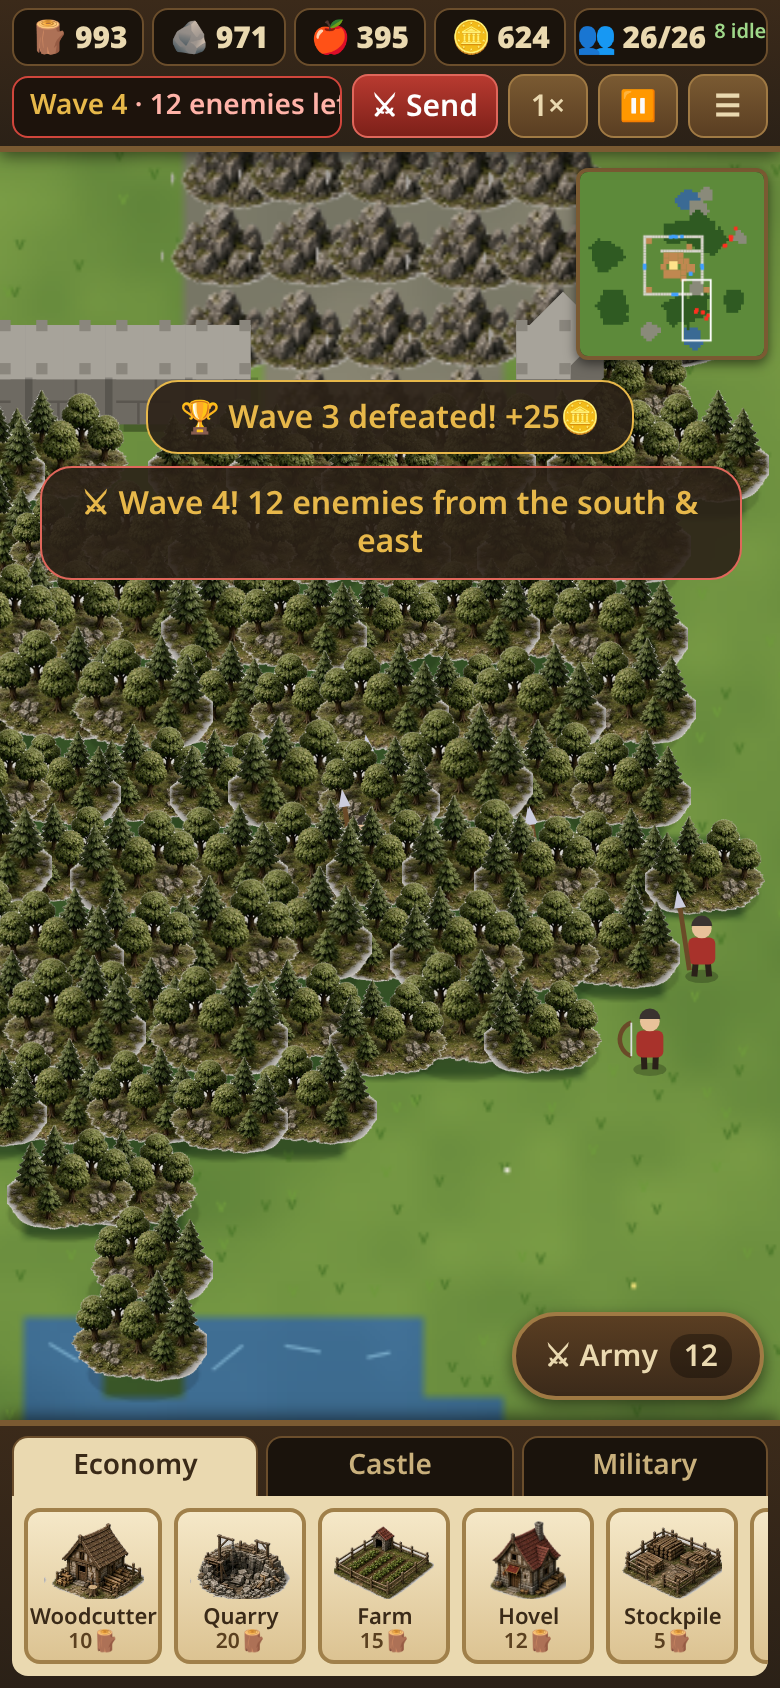
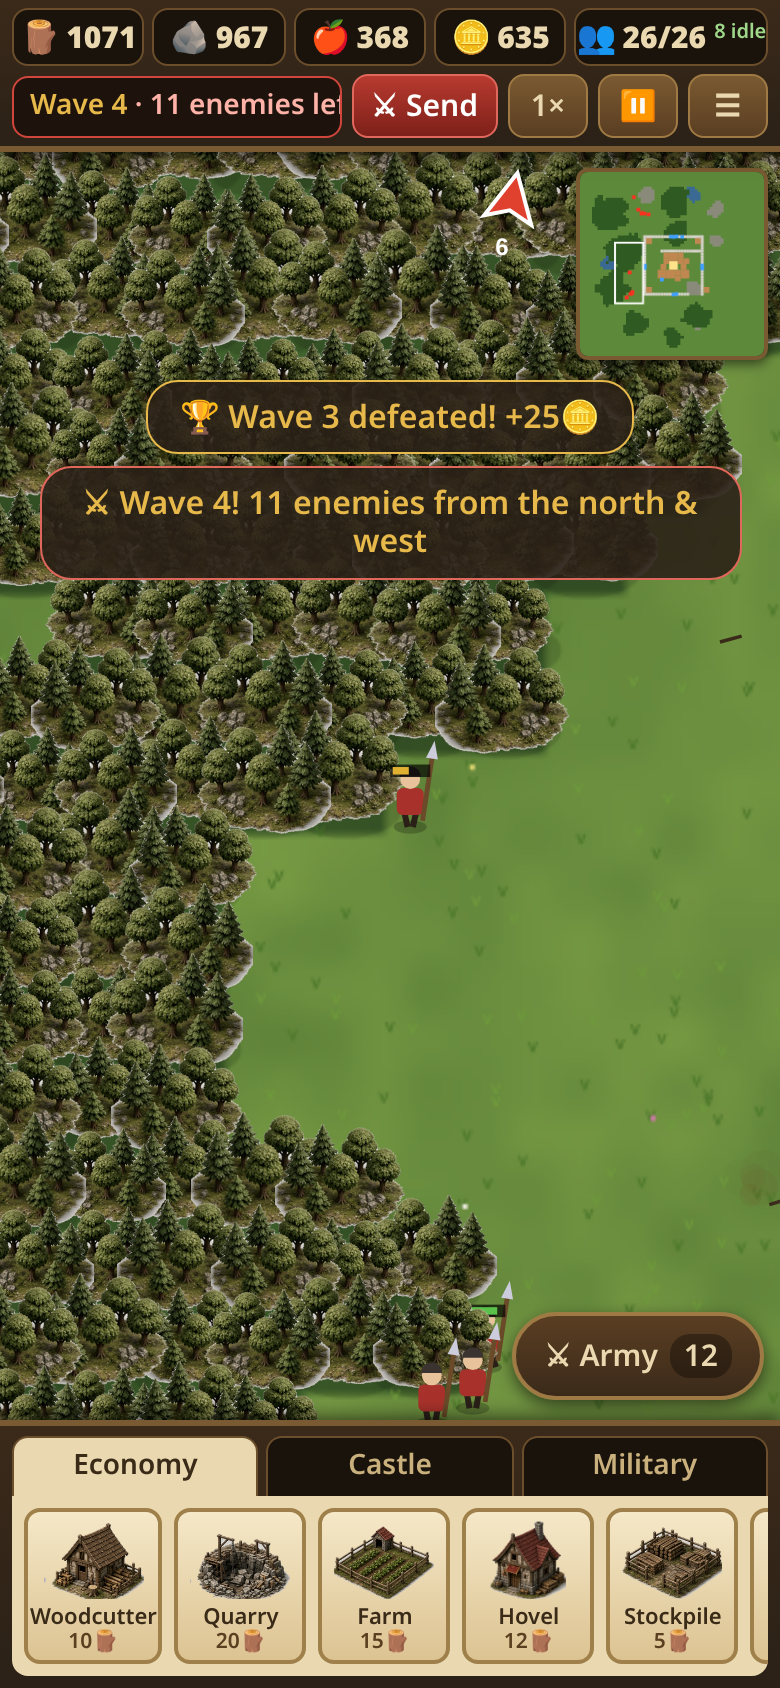
v1.0.3: gentler wave growth, spearmen fight back against archers

diff --git a/game.js b/game.js
@@ -1,6 +1,6 @@
 'use strict';
 (() => {
-const VERSION = '1.0.2';
+const VERSION = '1.0.3';
 const T = 32, N = 64, SAVE_KEY = 'htk-save-v1', TUT_KEY = 'htk-tut-done';
 const $ = id => document.getElementById(id);
 const cv = $('cv'), ctx = cv.getContext('2d');
@@ -268,9 +268,9 @@ function orderMove(ids, tx, ty) {
   return ok;
 }
 function nearestEnemyOf(u, r) { let best = null, bd = r; for (const e of S.u) if (e.tm !== u.tm && e.hp > 0) { const d = Math.hypot(e.x-u.x, e.y-u.y); if (d < bd) { bd = d; best = e; } } return best; }
-function shoot(fx, fy, tgt, dmg, team, h0 = 10) {
+function shoot(fx, fy, tgt, dmg, team, h0 = 10, src = 0) {
   const d = Math.hypot(tgt.x - fx, tgt.y - fy);
-  projectiles.push({sx:fx, sy:fy, tid:tgt.id, tx:tgt.x, ty:tgt.y, t:0, dur:Math.max(.15, d/13), dmg, team, h0});
+  projectiles.push({sx:fx, sy:fy, tid:tgt.id, tx:tgt.x, ty:tgt.y, t:0, dur:Math.max(.15, d/13), dmg, team, h0, src});
 }
 function hurtU(u, dmg) { u.hp -= dmg; if (u.hp <= 0 && !u.dead) { u.dead = true; puff(u.x*T, u.y*T, u.tm ? '#7a2a20' : '#2f4f8a', 6); if (u.tm === 1) S.kills++; } }
 function hurtB(b, dmg) { if (!byId.has(b.id) || S.over) return; b.hp -= dmg; if (Math.random() < .3) puff((b.x + B[b.k].w*Math.random())*T, (b.y + B[b.k].h*.6)*T, '#b5a68a', 1); if (b.hp <= 0) destroyB(b); }
@@ -288,6 +288,7 @@ function stepPlayerUnit(u, dt) {
   } else if (!u.path.length) {
     let tg = null, bd = d.aggro;
     for (const e of S.u) if (e.tm === 1 && e.hp > 0) { const dp = Math.hypot(e.x-u.px, e.y-u.py); if (dp < bd && !elevatedE(e)) { bd = dp; tg = e; } }
+    if (!tg && u.hitBy) { const a = uById(u.hitBy); if (a && a.hp > 0 && Math.hypot(a.x-u.px, a.y-u.py) < 8) tg = a; else u.hitBy = 0; }
     if (tg) {
       const dd = Math.hypot(tg.x-u.x, tg.y-u.y);
       if (dd < .75) { if (u.cd <= 0) { hurtU(tg, d.dmg); u.cd = d.cd; u.atk = .2; } }
@@ -310,7 +311,7 @@ function stepEnemy(u, dt) {
   let foe = null, fd = u.k === 'earcher' ? d.range : 1.8;
   for (const p of S.u) if (p.tm === 0 && p.hp > 0 && (u.k === 'earcher' || !p.el)) { const dd = Math.hypot(p.x-u.x, p.y-u.y); if (dd < fd) { fd = dd; foe = p; } }
   if (foe) {
-    if (u.k === 'earcher') { if (u.cd <= 0) { shoot(u.x, u.y, foe, d.dmg, 1, 10); u.cd = d.cd; } return; }
+    if (u.k === 'earcher') { if (u.cd <= 0) { shoot(u.x, u.y, foe, d.dmg, 1, 10, u.id); u.cd = d.cd; } return; }
     if (fd < .75) { if (u.cd <= 0) { hurtU(foe, d.dmg); u.cd = d.cd; u.atk = .2; } return; }
     const ox = u.x, oy = u.y; moveTo(u, foe.x, foe.y, d.spd, dt); if (!passT(tileOf(u)) || occ[tileOf(u)]) { u.x = ox; u.y = oy; } else return;
   }
@@ -334,8 +335,8 @@ let fieldVer = 0;
 const EDGE_NAMES = ['north','east','south','west'];
 function waveComp(n) {
   const hpm = 1 + 0.08*(n-1), list = [];
-  for (let i = 0; i < 3 + Math.floor(1.6*n); i++) list.push('raider');
-  for (let i = 0; i < (n >= 3 ? n-2 : 0); i++) list.push('earcher');
+  for (let i = 0; i < 3 + Math.floor(1.4*n); i++) list.push('raider');
+  for (let i = 0; i < (n >= 3 ? Math.ceil((n-2)*0.75) : 0); i++) list.push('earcher');
   for (let i = 0; i < (n >= 4 ? Math.floor((n-2)/2) : 0); i++) list.push('brute');
   return {list, hpm};
 }
@@ -397,7 +398,7 @@ function step(dt) {
     if (tg) { shoot(cx, cy, tg, sh.d, 0, b.k === 'keep' ? 60 : 50); b.cd = sh.cd; } }
   // projectiles
   for (const p of projectiles) { p.t += dt; const tg = uById(p.tid); if (tg && tg.hp > 0) { p.tx = tg.x; p.ty = tg.y; }
-    if (p.t >= p.dur) { p.done = true; if (tg && tg.hp > 0 && Math.hypot(tg.x-p.tx, tg.y-p.ty) < .6) hurtU(tg, p.dmg); } }
+    if (p.t >= p.dur) { p.done = true; if (tg && tg.hp > 0 && Math.hypot(tg.x-p.tx, tg.y-p.ty) < .6) { hurtU(tg, p.dmg); if (p.src) tg.hitBy = p.src; } } }
   projectiles = projectiles.filter(p => !p.done);
   if (S.u.some(u => u.dead)) { S.u = S.u.filter(u => !u.dead); sel = sel.filter(id => uById(id)); }
   for (const b of S.b) if (b.rise != null) { b.rise += dt*2.5; if (b.rise >= 1) delete b.rise; }

diff --git a/sw.js b/sw.js
@@ -1,4 +1,4 @@
-const VERSION = 'htk-v1.0.2';
+const VERSION = 'htk-v1.0.3';
 const FILES = ['./', 'index.html', 'style.css', 'game.js', 'manifest.webmanifest', 'icons/icon-180.png', 'icons/icon-192.png', 'icons/icon-512.png',
   ...['keep','stockpile','granary','woodcutter','quarry','farm','house','barracks','tower','trees','rock','gate'].map(n => 'assets/' + n + '.png')];
 self.addEventListener('install', e => { e.waitUntil(caches.open(VERSION).then(c => c.addAll(FILES)).then(() => self.skipWaiting())); });

diff --git a/tests/smoke.py b/tests/smoke.py
@@ -98,7 +98,7 @@ with sync_playwright() as p:
     check(all(rec), f"recruited 6 soldiers {rec}")
     # station archers on the north wall via a real tap with the army selected
     pg.click("#btn-army")
-    wt = pg.evaluate("() => [HTK.KX + 1, HTK.KX - 9]")
+    wt = pg.evaluate("() => { const H = HTK, y = H.KX - 9; for (let d = 0; d < 12; d++) for (const x of [H.KX + 1 + d, H.KX + 1 - d]) { const b = H.bAt(x, y); if (b && b.k === 'wall') return [x, y]; } return [H.KX + 1, y]; }")
     pg.evaluate("([x,y]) => { HTK.cam.x=(x+.5)*HTK.T; HTK.cam.y=(y+3)*HTK.T; }", wt); pg.wait_for_timeout(80)
     sp = pg.evaluate(TILE2SCREEN, wt); pg.wait_for_timeout(50)
     touch("touchStart", [(sp["x"], sp["y"])]); touch("touchEnd", [])
@@ -118,7 +118,7 @@ with sync_playwright() as p:
     # ---- run waves with time fast-forward ----
     pg.evaluate("() => { HTK.cam.x=(HTK.KX+1.5)*HTK.T; HTK.cam.y=(HTK.KY+1.5)*HTK.T; HTK.cam.z=.62; }")
     shot = False; log = []
-    for w in range(1, 7):
+    for w in range(1, 6):
         pg.evaluate("() => HTK.sendWave()")
         for sec in range(150):
             pg.evaluate("() => { for (let i = 0; i < 30; i++) HTK.step(1/30); }")
@@ -133,7 +133,7 @@ with sync_playwright() as p:
         # between waves, play like a player would: rebuild breaches, repair, recruit, man all four walls
         pg.evaluate("""() => { const H = HTK, r0 = H.KX - 9, r1 = H.KX + 11; H.S.res.stone += 80; H.S.res.gold += 60; H.S.res.wood += 20;
           for (const [a, b, c, d] of [[r0,r0,r1,r0],[r1,r0,r1,r1],[r1,r1,r0,r1],[r0,r1,r0,r0]]) H.commitWall('wall', a, b, c, d);
-          for (const b of H.S.b) if (b.k !== 'keep') b.hp = H.B[b.k].hp;
+          for (const b of H.S.b) b.hp = H.B[b.k].hp;
           H.S.pop = Math.max(H.S.pop, 12); let i = 0; while (H.soldiers().length < 12 && H.idle() > 0 && i++ < 20) H.recruit(H.soldiers().length % 4 === 3 ? 'spear' : 'archer');
           const arch = H.soldiers().filter(u => u.k === 'archer'); const sides = [[H.KX+1, r0],[r1, H.KY+1],[H.KX+1, r1],[r0, H.KY+1]];
           sides.forEach((p, j) => H.orderMove(arch.filter((u, k) => k % 4 === j).map(u => u.id), p[0], p[1]));
